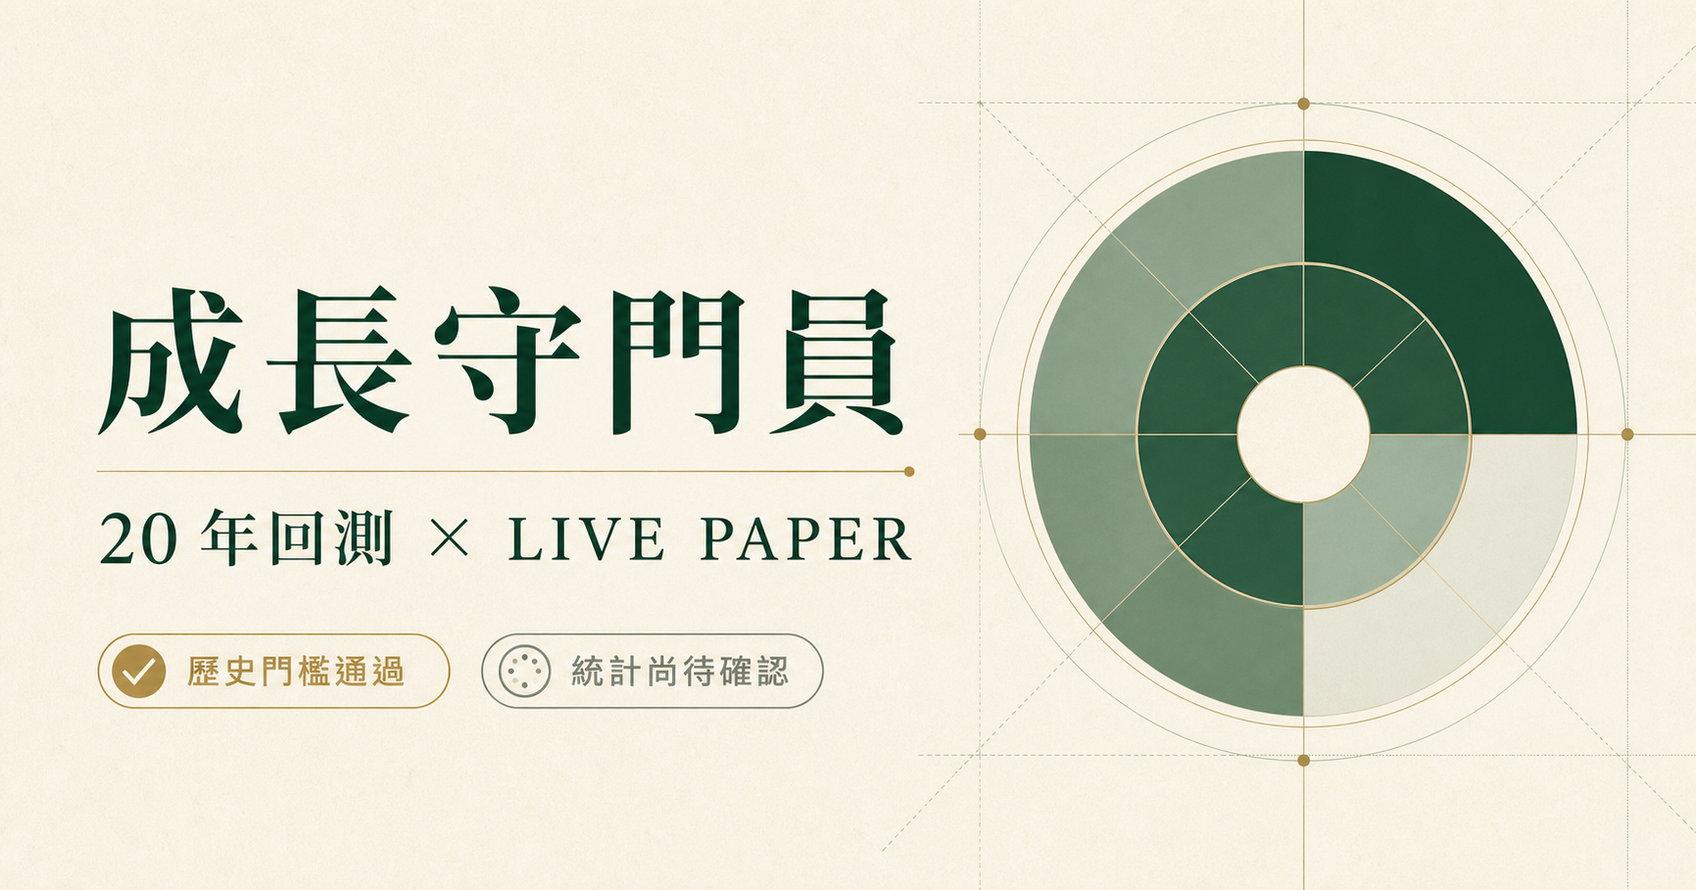
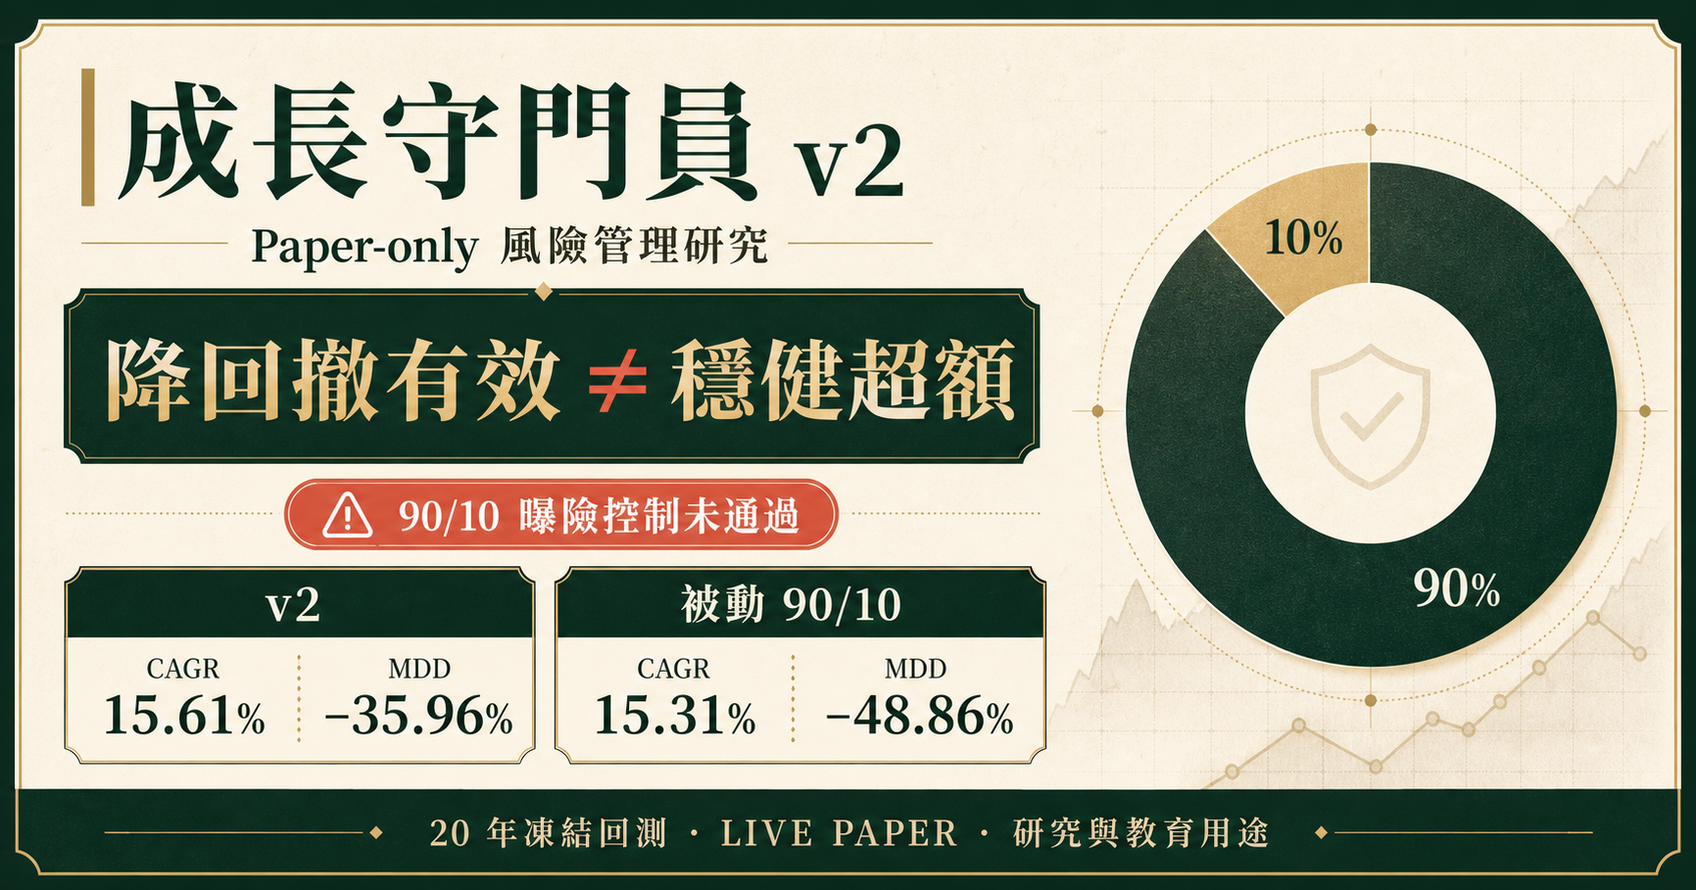
Fail closed on exposure-control audit

diff --git a/app/page.tsx b/app/page.tsx
@@ -5,7 +5,7 @@ import data from "../data/trading-data.json";
 
 export const metadata: Metadata = {
   title: "成長守門員 v2｜美股 ETF 研究訊號",
-  description: "20 年凍結回測、SPY／QQQ 比較、LIVE paper trade 與新手可讀的目標配置。",
+  description: "20 年凍結回測、SPY／QQQ／被動 90/10 比較、LIVE paper trade 與新手可讀的風險判讀。",
 };
 
 const labels: Record<string, { name: string; role: string }> = {
@@ -43,7 +43,8 @@ const targets = Object.entries(data.strategy.current_target)
   .sort((a, b) => b.weight - a.weight);
 
 const benchmarks = [
-  { name: "成長守門員 v2", note: "研究候選", ...data.strategy.metrics },
+  { name: "成長守門員 v2", note: "Paper-only", ...data.strategy.metrics },
+  { name: "被動 90/10", note: "曝險控制", ...data.benchmarks.QQQ90_SHY10 },
   { name: "SPY", note: "必須跨過的基準", ...data.benchmarks.SPY },
   { name: "QQQ", note: "更積極的成長基準", ...data.benchmarks.QQQ },
 ];
@@ -61,10 +62,21 @@ const gateLabels: Record<string, string> = {
   average_qqq_weight_no_more_than_90pct: "歷史平均 QQQ 不超過 90%",
 };
 
+const exposureGateLabels: Record<string, string> = {
+  full_cagr_above_passive_90_10: "20 年 CAGR 高於被動 90/10",
+  sharpe_above_passive_90_10: "Sharpe 高於被動 90/10",
+  drawdown_improvement_at_least_10pp_vs_passive_90_10: "最大回撤至少改善 10%",
+  both_ten_year_halves_beat_passive_90_10: "前後兩個十年都領先",
+  rolling_five_year_win_rate_vs_passive_at_least_75pct: "5 年滾動勝率至少 75%",
+  still_beats_passive_90_10_at_25bps: "成本提高到 25 bps 仍領先",
+  positive_average_daily_active_return_vs_passive_90_10: "平均每日超額報酬為正",
+};
+
 export default function Home() {
   const pending = data.paper.pending_order !== null;
   const invested = data.paper.status === "invested";
   const forward = data.paper.forward_evidence;
+  const referenceCandidate = data.evidence.reference_trade_candidate;
   const qqqWeight = data.strategy.current_target.QQQ;
   const shyWeight = data.strategy.current_target.SHY;
   return (
@@ -90,12 +102,14 @@ export default function Home() {
         <section className="hero wrap">
           <div className="hero-copy">
             <p className="eyebrow">20 年凍結研究 · LIVE PAPER</p>
-            <div className="status-badge pending fresh-only"><span />資料有效 · {pending ? "等待成交" : invested ? "照規則持有中" : "維持現金"}</div>
+            <div className="status-badge pending fresh-only"><span />資料有效 · {referenceCandidate ? (pending ? "等待成交" : invested ? "照規則持有中" : "維持現金") : "僅限 Paper 觀察"}</div>
             <div className="status-badge expired stale-only"><span />訊號已停用</div>
-            <h1 className="fresh-only">今天不用猜。<br />照規則，等下一個開盤。</h1>
+            <h1 className="fresh-only">先別急著照單。<br />降回撤有效，超額未穩健。</h1>
             <h1 className="stale-only">資料已過期。<br />今天先不要照做。</h1>
             <p className="hero-lead fresh-only">
-              {pending
+              {!referenceCandidate
+                ? <>v2 在 20 年回測勝過 SPY，但對相近成長曝險的被動 90% QQQ／10% SHY，後十年、滾動一致性與成本壓力都沒有通過。配置只供 Paper 驗證，不是實金下單指令。</>
+                : pending
                 ? <>系統已用 {data.data_through} 的月末收盤資料算出配置。最近波動越高，就自動降低 QQQ、增加 SHY；這筆訊號只在下一個新增交易日開盤模擬成交。</>
                 : invested
                 ? <>Paper 帳戶已按規則持有。現在不需要追價或手動換倉；系統會在下一個完整月末重新計算配置。</>
@@ -106,7 +120,7 @@ export default function Home() {
               但目前仍只到 {data.data_through}。請先更新行情、paper 狀態與部署版本。
             </p>
             <div className="hero-actions">
-              <a className="button primary fresh-only" href="#allocation">看我的配置</a>
+              <a className="button primary fresh-only" href={referenceCandidate ? "#allocation" : "#exposure-control"}>{referenceCandidate ? "看我的配置" : "查看未通過證據"}</a>
               <a className="button danger stale-only" href="#risks">查看為何停止參考</a>
               <a className="button ghost" href="#evidence">先看證據</a>
             </div>
@@ -116,7 +130,7 @@ export default function Home() {
             <div className="signal-card-head">
               <div>
                 <p>今天該做什麼</p>
-                <h2 id="today-title" className="fresh-only">{pending ? "等待模擬成交" : invested ? "照規則持有" : "維持現金"}</h2>
+                <h2 id="today-title" className="fresh-only">{referenceCandidate ? (pending ? "等待模擬成交" : invested ? "照規則持有" : "維持現金") : "只做 Paper，不照單"}</h2>
                 <h2 className="stale-only">資料過期，停止參考</h2>
               </div>
               <span className="clock" aria-hidden="true">↗</span>
@@ -138,7 +152,7 @@ export default function Home() {
             </div>
             <div className="next-step">
               <span>下一步</span>
-              <p>{pending ? "行情新增後，先核對成交明細；不是現在追價買進。" : invested ? "等待下一個月末訊號；期間不因新聞或情緒自行換倉。" : "等待完整月末訊號，沒有訊號就不建立部位。"}</p>
+              <p>{!referenceCandidate ? "先累積與被動 90/10 同起點的 LIVE 證據；目前不要把研究配置當成實金建議。" : pending ? "行情新增後，先核對成交明細；不是現在追價買進。" : invested ? "等待下一個月末訊號；期間不因新聞或情緒自行換倉。" : "等待完整月末訊號，沒有訊號就不建立部位。"}</p>
             </div>
             </div>
             <div className="stale-only stale-signal">
@@ -151,14 +165,15 @@ export default function Home() {
 
         <section className="truth-strip" aria-label="證據狀態">
           <div><span className="check">✓</span><p><b>回測門檻通過</b><small>凍結 20 年資料</small></p></div>
+          <div><span className={data.evidence.exposure_control_passed ? "check" : "wait"}>{data.evidence.exposure_control_passed ? "✓" : "!"}</span><p><b>{data.evidence.exposure_control_passed ? "曝險控制通過" : "曝險控制未通過"}</b><small>對照被動 90/10</small></p></div>
           <div><span className="wait">!</span><p><b>統計尚未確認</b><small>NW t = {data.evidence.newey_west_t.toFixed(2)}，門檻 1.96</small></p></div>
           <div><span className={data.evidence.live_confirmed ? "check" : "wait"}>{data.evidence.live_confirmed ? "✓" : "→"}</span><p><b>{data.evidence.live_confirmed ? "LIVE 門檻通過" : "LIVE 累積中"}</b><small>{forward.forward_sessions} / {forward.minimum_sessions} 日 · {forward.filled_rebalances} / {forward.minimum_filled_rebalances} 次換倉</small></p></div>
         </section>
 
         <section className="section wrap" id="allocation">
           <div className="section-heading split-heading">
-            <div><p className="eyebrow">01 · CURRENT SIGNAL</p><h2>把百分比換成你看得懂的金額</h2></div>
-            <p>輸入預算只做試算，不會下單、連券商或儲存資料。</p>
+            <div><p className="eyebrow">01 · PAPER ALLOCATION</p><h2>研究配置換算，不是下單建議</h2></div>
+            <p>輸入預算只看 Paper 權重會對應多少金額；不會下單、連券商或儲存資料。</p>
           </div>
           <div className="fresh-only"><AllocationCalculator allocations={targets} /></div>
           <div className="stale-only allocation-stale">
@@ -167,7 +182,7 @@ export default function Home() {
           </div>
           <div className="plain-note fresh-only">
             <b>一句話讀法</b>
-            <p>{data.beginner.allocation_hint} 規則是「18% 目標波動 ÷ 最近 21 日 QQQ 波動」，上限 100%、不使用槓桿；集中度仍高，不能把它當低風險策略。</p>
+            <p>{data.beginner.allocation_hint} 這只是正在驗證的 Paper 配置。規則是「18% 目標波動 ÷ 最近 21 日 QQQ 波動」，上限 100%、不使用槓桿；曝險控制未通過前不要照單。</p>
           </div>
         </section>
 
@@ -175,8 +190,8 @@ export default function Home() {
           <div className="wrap">
             <div className="section-heading light">
               <p className="eyebrow">02 · THE RECEIPT</p>
-              <h2>它在這 20 年跑贏 SPY，<br />但沒有跑贏 QQQ。</h2>
-              <p>這是更誠實也更有用的比較：候選提升了 SPY 的報酬與回撤，但放棄一部分 QQQ 的長期漲幅。</p>
+              <h2>它跑贏 SPY，<br />但只略贏被動 90/10。</h2>
+              <p>加入相近 QQQ 曝險的簡單被動組合後，真正能歸因於波動管理的報酬優勢很小，而且跨期間不穩定。</p>
             </div>
             <div className="comparison-grid">
               {benchmarks.map((row, index) => (
@@ -191,17 +206,38 @@ export default function Home() {
               ))}
             </div>
             <div className="evidence-numbers">
-              <article><span>相對 SPY 年化</span><strong>+{pct(data.evidence.cagr_difference_vs_spy, 2)}</strong><p>20 年單一起訖點</p></article>
-              <article><span>回撤改善</span><strong>+{pct(data.evidence.drawdown_improvement_vs_spy, 2)}</strong><p>仍曾跌約三成六</p></article>
-              <article><span>5 年滾動勝率</span><strong>{pct(data.evidence.rolling_five_year.win_fraction_vs_spy, 1)}</strong><p>{data.evidence.rolling_five_year.windows} 個月末視窗</p></article>
-              <article className="caution"><span>最近 5 年相對 SPY</span><strong>{pct(data.evidence.rolling_five_year.latest_cagr_difference_vs_spy, 2)}</strong><p>不是每段都領先</p></article>
+              <article><span>相對被動 90/10 年化</span><strong>+{pct(data.evidence.cagr_difference_vs_passive_90_10, 2)}</strong><p>只看 20 年單一起訖點</p></article>
+              <article><span>相對 90/10 回撤改善</span><strong>+{pct(data.evidence.drawdown_improvement_vs_passive_90_10, 2)}</strong><p>降風險效果明顯</p></article>
+              <article><span>5 年滾動勝率</span><strong>{pct(data.evidence.rolling_five_year_vs_passive_90_10.win_fraction, 1)}</strong><p>門檻 75%，實際接近擲硬幣</p></article>
+              <article className="caution"><span>後十年相對 90/10</span><strong>{pct(data.evidence.second_ten_year_cagr_difference_vs_passive_90_10, 2)}</strong><p>未能跨時期維持領先</p></article>
             </div>
+          </div>
+        </section>
+
+        <section className="section wrap" id="exposure-control">
+          <div className="section-heading split-heading">
+            <div><p className="eyebrow">03 · EXPOSURE CONTROL</p><h2>真正難的基準：不用預測的 90/10</h2></div>
+            <p>被動 90% QQQ／10% SHY 每月末再平衡。這項稽核是在 v2 選定後補上，因此只算反證，不冒充預先註冊。</p>
+          </div>
+          <div className="gate-layout">
+            <div className="gate-list">
+              {Object.entries(data.evidence.exposure_control_gates).map(([key, passed]) => (
+                <div key={key}><span className={passed ? "gate-pass" : "gate-fail"}>{passed ? "通過" : "失敗"}</span><p>{exposureGateLabels[key] ?? key}</p></div>
+              ))}
+            </div>
+            <article className="stat-card">
+              <span>最重要的新反證</span>
+              <h3>降回撤，不等於穩健超額</h3>
+              <p>全期 CAGR 仍略高 {pct(data.evidence.cagr_difference_vs_passive_90_10, 2)}，但每日超額報酬年化平均為 {pct(data.evidence.active_return_vs_passive_90_10.annualized_mean, 2)}，NW t 只有 {data.evidence.active_return_vs_passive_90_10.newey_west_t.toFixed(2)}。</p>
+              <p>成本提高到 25 bps 後，年化差轉為 {pct(data.evidence.cost_25bps_cagr_difference_vs_passive_90_10, 2)}；所以不能只看最好看的單一起訖 CAGR。</p>
+              <div className="verdict">目前結論：保留 Paper 追蹤，不升級成實金參考策略。</div>
+            </article>
           </div>
         </section>
 
         <section className="section wrap">
           <div className="section-heading split-heading">
-            <div><p className="eyebrow">03 · PASS / NOT PROVEN</p><h2>通過的是歷史規則，不是未來保證</h2></div>
+            <div><p className="eyebrow">04 · PASS / NOT PROVEN</p><h2>通過 SPY，不代表通過公平基準</h2></div>
             <p>策略搜尋會放大運氣。因此除了績效，我們也保留沒有通過的統計檢查。</p>
           </div>
           <div className="gate-layout">
@@ -228,9 +264,9 @@ export default function Home() {
         <section className="section paper-section" id="paper">
           <div className="wrap paper-grid">
             <div className="section-heading light">
-              <p className="eyebrow">04 · FORWARD ONLY</p>
+              <p className="eyebrow">05 · FORWARD ONLY</p>
               <h2>Paper trade 不回填漂亮歷史</h2>
-              <p>主策略、SPY 與 QQQ 都從同一天現金起跑、使用同一成本與下一開盤成交。至少累積 252 個交易日、6 次換倉，且報酬跑贏 SPY、回撤不比 SPY 深，才標成 LIVE 通過。除息或拆股造成調整價格回溯時，只重基準總報酬單位，不回寫既有損益。</p>
+              <p>主策略、SPY、QQQ 與被動 90/10 都從同一天現金起跑、使用同一成本與下一開盤成交。至少累積 252 個交易日、6 次換倉，且同時跑贏 SPY 與被動 90/10、回撤不更深，才標成 LIVE 通過。除息或拆股造成調整價格回溯時，只重基準總報酬單位，不回寫既有損益。</p>
             </div>
             <article className="account-card">
               <div className="account-top"><span>LIVE PAPER</span><i /></div>
@@ -245,6 +281,7 @@ export default function Home() {
                 <div><dt>v2 前瞻報酬</dt><dd>{pct(data.paper.return, 2)}</dd></div>
                 <div><dt>SPY 同期</dt><dd>{pct(forward.benchmarks.SPY.return, 2)}</dd></div>
                 <div><dt>QQQ 同期</dt><dd>{pct(forward.benchmarks.QQQ.return, 2)}</dd></div>
+                <div><dt>被動 90/10 同期</dt><dd>{pct(forward.benchmarks.QQQ90_SHY10.return, 2)}</dd></div>
               </dl>
               <div className="queued"><span />{pending ? "訊號已排隊，等待下一個新增交易日" : invested ? "目前持有中，等待下一個月末重算" : "目前維持現金，等待有效月末訊號"}</div>
             </article>
@@ -252,17 +289,18 @@ export default function Home() {
         </section>
 
         <section className="section wrap" id="risks">
-          <div className="section-heading"><p className="eyebrow">05 · READ BEFORE USE</p><h2>先知道最壞的事，再看最好看的數字</h2></div>
+          <div className="section-heading"><p className="eyebrow">06 · READ BEFORE USE</p><h2>先知道最壞的事，再看最好看的數字</h2></div>
           <div className="risk-grid">
             {data.limitations.map((item, index) => <article key={item}><span>0{index + 1}</span><p>{item}</p></article>)}
           </div>
         </section>
 
         <section className="section wrap faq-section">
-          <div className="section-heading"><p className="eyebrow">06 · BEGINNER FAQ</p><h2>常見問題</h2></div>
+          <div className="section-heading"><p className="eyebrow">07 · BEGINNER FAQ</p><h2>常見問題</h2></div>
           <div className="faq-list">
             <details><summary>我現在可以照百分比買嗎？<span>＋</span></summary><p>頁面顯示的是等待 paper 模擬成交的研究訊號，不是即時買進指令。若自行實作，仍要評估風險承受度、稅務、匯率和券商成本。</p></details>
             <details><summary>既然 20 年贏 SPY，為什麼還說未確認？<span>＋</span></summary><p>同一批資料試過很多方法後，最好看的結果可能只是運氣。統計檢查與全新的前瞻交易紀錄仍不足，所以只稱「歷史候選」。</p></details>
+            <details><summary>為什麼要再比被動 90/10？<span>＋</span></summary><p>v2 平均持有接近九成 QQQ，只比 SPY 可能把科技股曝險誤認成策略能力。90/10 不預測波動、只固定再平衡，是更公平的曝險控制；目前 v2 沒有穩定跨過它。</p></details>
             <details><summary>最大回撤 -36% 是什麼意思？<span>＋</span></summary><p>在回測最糟的一段，帳面價值曾從高點跌約 36%。10 萬美元可能一度只剩約 6.4 萬美元，而且回復時間未知。</p></details>
             <details><summary>為什麼除息後 Paper 單位數可能改變？<span>＋</span></summary><p>Paper 使用可連續計算總報酬的調整單位，不是券商實際股數。若除息、拆股或供應商修訂讓舊的調整價格改變，系統會等比例調整單位數、保持當時市值不變，既有成交和損益不會被重寫。</p></details>
             <details><summary>訊號多久變一次？<span>＋</span></summary><p>每個月最後一個交易日收盤後重新計算；有新訊號時，只在下一個交易日開盤模擬調整。</p></details>

diff --git a/app/globals.css b/app/globals.css
@@ -99,7 +99,7 @@ h1 { margin: 0; max-width: 650px; font: 500 clamp(50px, 6vw, 82px)/.98 Georgia, 
 .stale-signal { min-height: 260px; margin-top: 30px; padding: 40px 28px; border: 1px dashed #d0a493; border-radius: 20px; background: #f5e5df; }
 .stale-signal strong { color: #853e31; font: 500 26px Georgia, serif; }.stale-signal p { color: #745f58; font-size: 13px; line-height: 1.7; }.stale-signal code { color: #95736a; font-size: 10px; }
 
-.truth-strip { display: grid; grid-template-columns: repeat(3, 1fr); border-block: 1px solid var(--line); background: rgba(255,255,255,.3); }
+.truth-strip { display: grid; grid-template-columns: repeat(4, 1fr); border-block: 1px solid var(--line); background: rgba(255,255,255,.3); }
 .truth-strip > div { min-height: 104px; display: flex; align-items: center; justify-content: center; gap: 14px; padding: 20px; border-right: 1px solid var(--line); }
 .truth-strip > div:last-child { border-right: 0; }
 .truth-strip > div > span { display: grid; place-items: center; width: 30px; height: 30px; border-radius: 50%; font-size: 13px; font-weight: 800; }
@@ -133,7 +133,7 @@ h1 { margin: 0; max-width: 650px; font: 500 clamp(50px, 6vw, 82px)/.98 Georgia, 
 
 .contrast { background: var(--forest-deep); color: #f4f5ee; }
 .section-heading.light .eyebrow { color: var(--lime); }.section-heading.light > p:last-child { color: #9fb8af; max-width: 670px; }
-.comparison-grid { display: grid; grid-template-columns: repeat(3, 1fr); gap: 14px; }
+.comparison-grid { display: grid; grid-template-columns: repeat(4, 1fr); gap: 14px; }
 .comparison-card { padding: 25px; border: 1px solid rgba(255,255,255,.13); border-radius: 20px; background: rgba(255,255,255,.04); }
 .comparison-card.featured { background: var(--lime); color: var(--forest-deep); border-color: var(--lime); }
 .comparison-card > div { display: flex; justify-content: space-between; gap: 10px; align-items: start; }.comparison-card h3 { margin: 0; font: 500 24px Georgia, serif; }.comparison-card > div span { font-size: 10px; opacity: .65; }
@@ -150,7 +150,7 @@ h1 { margin: 0; max-width: 650px; font: 500 clamp(50px, 6vw, 82px)/.98 Georgia, 
 .paper-grid { display: grid; grid-template-columns: 1fr 440px; gap: 80px; align-items: center; }
 .account-card { padding: 30px; border-radius: 26px; background: #f7f7ef; box-shadow: 0 22px 60px rgba(21,45,37,.14); }.account-top { display: flex; justify-content: space-between; color: var(--muted); font: 700 10px ui-monospace, monospace; letter-spacing: .14em; }.account-top i { width: 8px; height: 8px; border-radius: 50%; background: var(--gold); box-shadow: 0 0 0 5px rgba(215,168,74,.16); }.account-card > strong { display: block; margin: 24px 0 2px; font: 500 45px Georgia, serif; }.account-card > small { color: var(--muted); }.account-card dl { display: grid; grid-template-columns: 1fr 1fr; gap: 16px; margin: 28px 0; }.account-card dl div { padding-top: 10px; border-top: 1px solid var(--line); }.account-card dt { color: var(--muted); font-size: 10px; }.account-card dd { margin: 4px 0 0; font-size: 14px; font-weight: 700; }.queued { display: flex; align-items: center; gap: 9px; padding: 12px; border-radius: 10px; background: #f3e7ca; color: #72571f; font-size: 11px; }.queued span { width: 7px; height: 7px; border-radius: 50%; background: var(--gold); }
 
-.risk-grid { display: grid; grid-template-columns: repeat(5, 1fr); border-block: 1px solid var(--line); }.risk-grid article { min-height: 230px; padding: 22px; border-right: 1px solid var(--line); }.risk-grid article:last-child { border-right: 0; }.risk-grid span { color: #8c9892; font: 11px ui-monospace, monospace; }.risk-grid p { margin: 54px 0 0; font-size: 13px; line-height: 1.75; }
+.risk-grid { display: grid; grid-template-columns: repeat(auto-fit, minmax(170px, 1fr)); border-block: 1px solid var(--line); }.risk-grid article { min-height: 230px; padding: 22px; border-right: 1px solid var(--line); }.risk-grid article:last-child { border-right: 0; }.risk-grid span { color: #8c9892; font: 11px ui-monospace, monospace; }.risk-grid p { margin: 54px 0 0; font-size: 13px; line-height: 1.75; }
 .faq-section { padding-top: 50px; }.faq-list { border-top: 1px solid var(--line); }.faq-list details { border-bottom: 1px solid var(--line); }.faq-list summary { list-style: none; display: flex; justify-content: space-between; align-items: center; padding: 24px 0; cursor: pointer; font: 500 19px Georgia, serif; }.faq-list summary::-webkit-details-marker { display: none; }.faq-list summary:focus-visible { outline: 2px solid var(--gold); outline-offset: 4px; border-radius: 4px; }.faq-list summary span { font: 300 24px ui-sans-serif, system-ui; transition: transform .2s; }.faq-list details[open] summary span { transform: rotate(45deg); }.faq-list details p { max-width: 780px; margin: 12px 0 24px; padding-right: 36px; color: var(--muted); line-height: 1.75; font-size: 13px; }
 
 footer { padding: 50px 0; border-top: 1px solid var(--line); background: #e7e2d7; }

diff --git a/app/layout.tsx b/app/layout.tsx
@@ -3,17 +3,18 @@ import data from "../data/trading-data.json";
 import "./globals.css";
 
 export const metadata: Metadata = {
+  metadataBase: new URL("https://growth-guard-tw.voidful819957.chatgpt.site"),
   title: {
-    default: "成長守門員｜美股 ETF 研究訊號",
+    default: "成長守門員 v2｜Paper-only 美股 ETF 研究",
     template: "%s｜成長守門員",
   },
-  description: "20 年凍結回測、SPY／QQQ 比較、LIVE paper trade 與新手可讀的目標配置。",
+  description: "20 年凍結回測顯示降回撤有效，但被動 90/10 曝險控制未通過；目前僅供 LIVE paper 研究。",
   openGraph: {
-    title: "成長守門員｜今天不用猜，照規則等下一個開盤",
-    description: "20 年凍結回測與 LIVE paper trade；歷史門檻通過，統計與前瞻紀錄尚待確認。",
+    title: "成長守門員 v2｜降回撤有效，不等於穩健超額",
+    description: "勝過 SPY，但未穩定勝過被動 90% QQQ／10% SHY；目前只做 LIVE paper，不作實金照單訊號。",
     locale: "zh_TW",
     type: "website",
-    images: [{ url: "/og.png", width: 1200, height: 630, alt: "成長守門員美股 ETF 研究訊號" }],
+    images: [{ url: "/og.png", width: 1731, height: 909, alt: "成長守門員 v2 Paper-only 風險管理研究" }],
   },
   twitter: { card: "summary_large_image", images: ["/og.png"] },
   icons: { icon: "/favicon.svg" },
